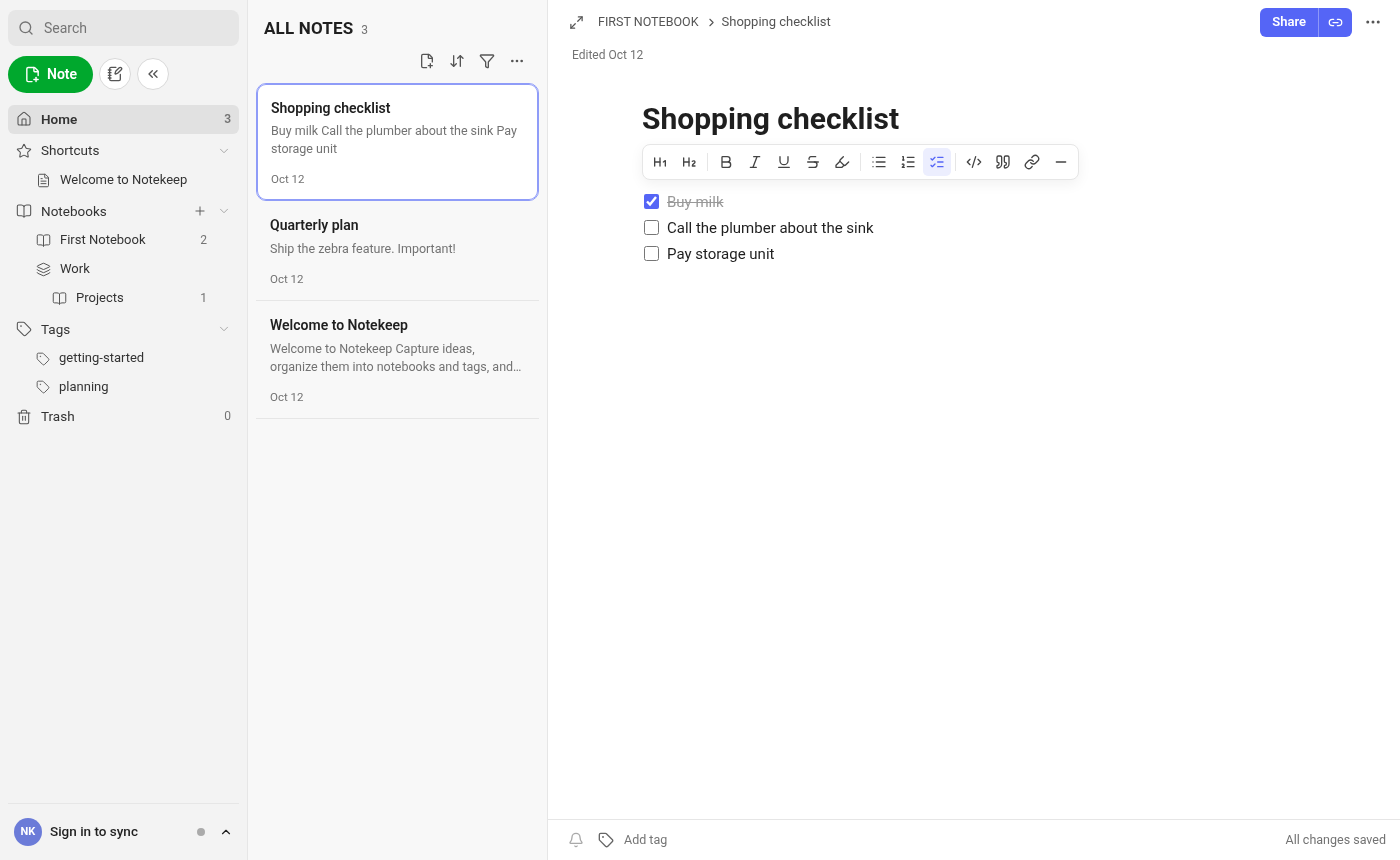
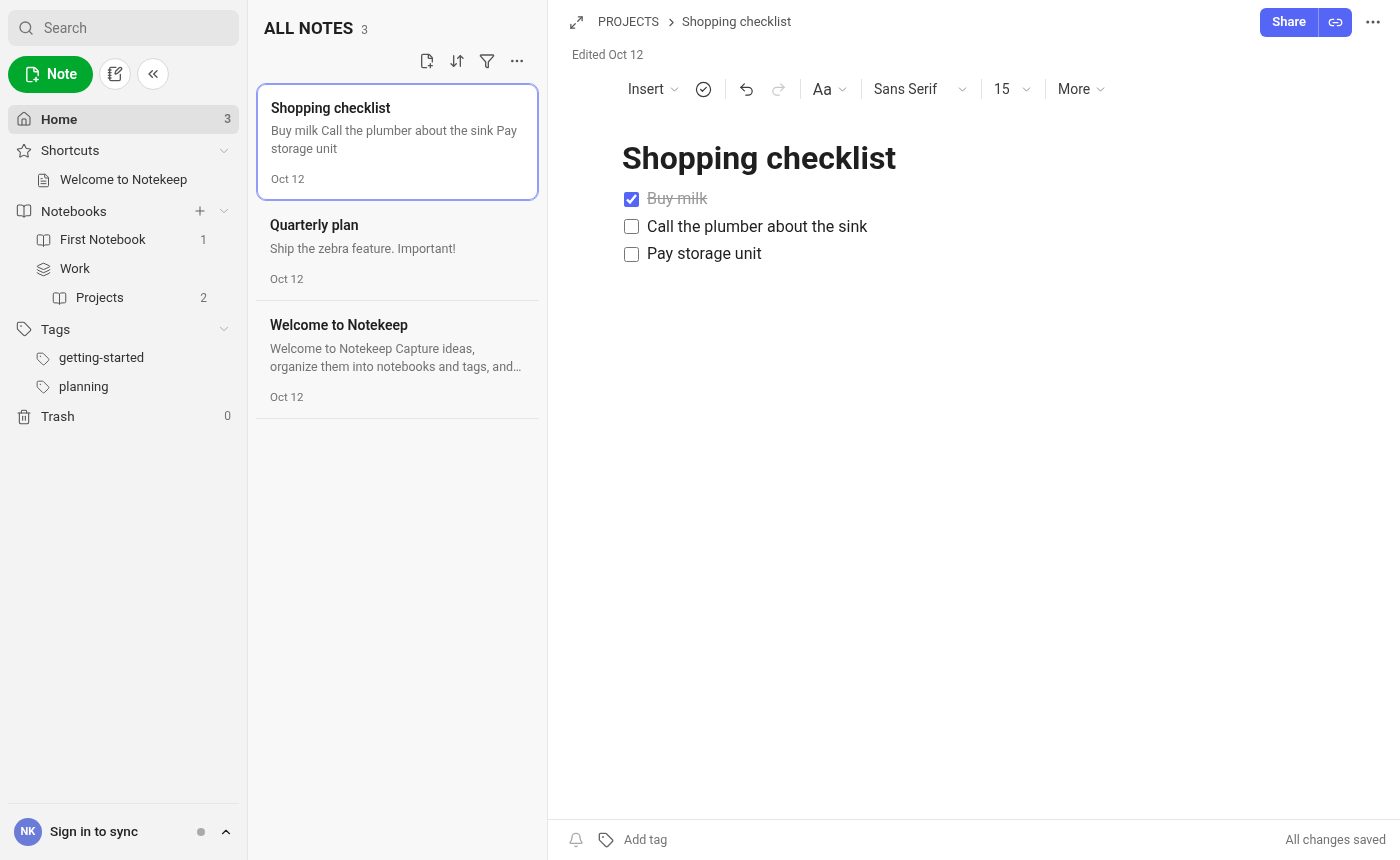
Always-visible editor toolbar: Insert, checklist, undo/redo, Turn into, font family/size, More (marks, color, sup/sub, align, indent, clear); tables/images; 16px body

Changed region(s): [[0.43, 0.0907, 0.7371, 0.3023], [0.43, 0.0, 0.5836, 0.0302], [0.7371, 0.0907, 0.7679, 0.1209]]

diff --git a/src/Editor.tsx b/src/Editor.tsx
@@ -1,40 +1,130 @@
-import { useEditor, EditorContent } from '@tiptap/react'
+import { useEditor, EditorContent, type Editor as TEditor } from '@tiptap/react'
 import StarterKit from '@tiptap/starter-kit'
 import TaskList from '@tiptap/extension-task-list'
 import TaskItem from '@tiptap/extension-task-item'
 import Highlight from '@tiptap/extension-highlight'
-import { Heading1, Heading2, Bold, Italic, Underline, Strikethrough, Highlighter, List, ListOrdered, ListChecks, Code2, Quote, Link, Minus } from 'lucide-react'
-import type { ReactNode } from 'react'
-export default function Editor({ html, onChange }: { html: string; onChange: (html: string, text: string) => void }) {
+import { TextStyle, FontFamily, FontSize, Color } from '@tiptap/extension-text-style'
+import { TableKit } from '@tiptap/extension-table'
+import TextAlign from '@tiptap/extension-text-align'
+import Image from '@tiptap/extension-image'
+import Subscript from '@tiptap/extension-subscript'
+import Superscript from '@tiptap/extension-superscript'
+import { Indent } from './Indent'
+import { ChevronDown, CircleCheck, Undo2, Redo2, ListChecks, List, ListOrdered, Table, Minus, Code2, Quote, Link, Image as ImageIcon, Bold, Italic, Underline, Strikethrough, Highlighter, Palette, Superscript as SupIcon, Subscript as SubIcon, AlignLeft, AlignCenter, AlignRight, Indent as IndentIcon, Outdent, RemoveFormatting, Heading1, Heading2, Heading3, Heading4, Type } from 'lucide-react'
+import { useEffect, useRef, useState, type ReactNode } from 'react'
+
+export const FONTS = [
+  { label: 'Sans Serif', value: '' },
+  { label: 'Serif', value: 'Georgia, "Times New Roman", serif' },
+  { label: 'Slab Serif', value: '"Roboto Slab", Rockwell, "Courier Bold", Georgia, serif' },
+  { label: 'Monospace', value: 'ui-monospace, SFMono-Regular, Menlo, Consolas, monospace' },
+  { label: 'Handwritten', value: '"Comic Sans MS", "Bradley Hand", "Segoe Print", cursive' },
+]
+export const SIZES = [8, 9, 10, 12, 14, 15, 16, 18, 20, 24, 30, 36, 48, 64]
+export const DEFAULT_SIZE = 15
+/** Toolbar sizes are scaled so the default "15" renders at 16px, like the reference. */
+export const toPx = (s: number) => +(s * 16 / DEFAULT_SIZE).toFixed(2) + 'px'
+export const fromPx = (px: string) => Math.round(parseFloat(px) * DEFAULT_SIZE / 16)
+const COLORS = ['#1f1f1f', '#737373', '#d93025', '#e8710a', '#c79100', '#188038', '#1a73e8', '#5565f6', '#9334e6']
+const BLOCKS = [
+  { label: 'Normal text', icon: <Type size={16} />, level: 0 },
+  { label: 'Large header', icon: <Heading1 size={16} />, level: 1 },
+  { label: 'Medium header', icon: <Heading2 size={16} />, level: 2 },
+  { label: 'Small header', icon: <Heading3 size={16} />, level: 3 },
+  { label: 'Extra small header', icon: <Heading4 size={16} />, level: 4 },
+] as const
+
+function Drop({ label, title, children, className = '', wide }: { label: ReactNode; title: string; children: (close: () => void) => ReactNode; className?: string; wide?: boolean }) {
+  const [open, setOpen] = useState(false); const ref = useRef<HTMLDivElement>(null)
+  useEffect(() => { if (!open) return; const f = (e: MouseEvent) => { if (!ref.current?.contains(e.target as Node)) setOpen(false) }; document.addEventListener('mousedown', f); return () => document.removeEventListener('mousedown', f) }, [open])
+  return <div className={'drop ' + className} ref={ref}>
+    <button type="button" className={'tb drop-btn' + (open ? ' open' : '')} title={title} aria-label={title} aria-expanded={open} onMouseDown={e => { e.preventDefault(); setOpen(!open) }}>{label}<ChevronDown size={13} className="cv" /></button>
+    {open && <div className={'dmenu' + (wide ? ' wide' : '')} role="menu">{children(() => setOpen(false))}</div>}
+  </div>
+}
+const Item = ({ icon, label, onRun, active, kbd, close }: { icon?: ReactNode; label: string; onRun: () => void; active?: boolean; kbd?: string; close: () => void }) =>
+  <button type="button" role="menuitem" className={'mitem' + (active ? ' on' : '')} onMouseDown={e => { e.preventDefault(); onRun(); close() }}>
+    <span className="mi-ic">{icon}</span><span className="mi-l">{label}</span>{kbd && <span className="kbd">{kbd}</span>}</button>
+
+function Toolbar({ editor }: { editor: TEditor }) {
+  const c = () => editor.chain().focus()
+  const ts = editor.getAttributes('textStyle')
+  const fam = FONTS.find(f => f.value && ts.fontFamily === f.value) ?? FONTS[0]
+  const size = ts.fontSize ? fromPx(ts.fontSize) : DEFAULT_SIZE
+  const level = BLOCKS.find(b => b.level && editor.isActive('heading', { level: b.level }))?.level ?? 0
+  const mac = /Mac|iPhone|iPad/.test(navigator.platform); const M = mac ? '⌘' : 'Ctrl+'; const S = mac ? '⇧' : 'Shift+'
+  const I = (icon: ReactNode, title: string, run: () => void, disabled = false, active = false) =>
+    <button type="button" className={'tb' + (active ? ' on' : '')} title={title} aria-label={title} disabled={disabled} onMouseDown={e => { e.preventDefault(); run() }}>{icon}</button>
+  return <div className="toolbar" role="toolbar" aria-label="Formatting">
+    <Drop label="Insert" title="Insert" className="txt">{close => <>
+      <Item close={close} icon={<ListChecks size={16} />} label="Checklist" kbd={M + S + 'C'} onRun={() => c().toggleTaskList().run()} />
+      <Item close={close} icon={<List size={16} />} label="Bulleted list" kbd={M + S + '8'} onRun={() => c().toggleBulletList().run()} />
+      <Item close={close} icon={<ListOrdered size={16} />} label="Numbered list" kbd={M + S + '7'} onRun={() => c().toggleOrderedList().run()} />
+      <Item close={close} icon={<Table size={16} />} label="Table" onRun={() => c().insertTable({ rows: 3, cols: 3, withHeaderRow: true }).run()} />
+      <div className="msep" />
+      <Item close={close} icon={<Minus size={16} />} label="Divider" onRun={() => c().setHorizontalRule().run()} />
+      <Item close={close} icon={<Code2 size={16} />} label="Code block" kbd={M + 'Alt+C'} onRun={() => c().toggleCodeBlock().run()} />
+      <Item close={close} icon={<Quote size={16} />} label="Quote" kbd={M + S + 'B'} onRun={() => c().toggleBlockquote().run()} />
+      <Item close={close} icon={<Link size={16} />} label="Link" onRun={() => { const u = prompt('Link URL', editor.getAttributes('link').href ?? 'https://'); if (u === null) return; if (u) c().extendMarkRange('link').setLink({ href: u }).run(); else c().unsetLink().run() }} />
+      <Item close={close} icon={<ImageIcon size={16} />} label="Image from URL" onRun={() => { const u = prompt('Image URL'); if (u) c().setImage({ src: u }).run() }} />
+    </>}</Drop>
+    {I(<CircleCheck size={17} />, 'Checklist', () => c().toggleTaskList().run(), false, editor.isActive('taskList'))}
+    <i className="sep" />
+    {I(<Undo2 size={17} />, 'Undo', () => c().undo().run(), !editor.can().undo())}
+    {I(<Redo2 size={17} />, 'Redo', () => c().redo().run(), !editor.can().redo())}
+    <i className="sep" />
+    <Drop label={<span className="aa">Aa</span>} title={'Turn into: ' + BLOCKS.find(b => b.level === level)!.label} wide>{close => <>
+      <div className="mhead">Turn into</div>
+      {BLOCKS.map(b => <Item key={b.level} close={close} icon={b.icon} label={b.label} active={b.level === level}
+        onRun={() => b.level ? c().setHeading({ level: b.level as 1 | 2 | 3 | 4 }).run() : c().setParagraph().run()} />)}
+    </>}</Drop>
+    <i className="sep" />
+    <Drop label={<span className="fam">{fam.label}</span>} title="Font" className="txt">{close => FONTS.map(f =>
+      <Item key={f.label} close={close} label={f.label} active={f === fam} icon={<span style={{ fontFamily: f.value || 'inherit' }}>Aa</span>}
+        onRun={() => f.value ? c().setFontFamily(f.value).run() : c().unsetFontFamily().run()} />)}</Drop>
+    <i className="sep" />
+    <Drop label={<span className="size">{size}</span>} title="Font size" className="txt">{close => SIZES.map(s =>
+      <Item key={s} close={close} label={String(s)} active={s === size} onRun={() => s === DEFAULT_SIZE ? c().unsetFontSize().run() : c().setFontSize(toPx(s)).run()} />)}</Drop>
+    <i className="sep" />
+    <Drop label="More" title="More formatting" className="txt" wide>{close => <>
+      <Item close={close} icon={<Bold size={16} />} label="Bold" kbd={M + 'B'} active={editor.isActive('bold')} onRun={() => c().toggleBold().run()} />
+      <Item close={close} icon={<Italic size={16} />} label="Italic" kbd={M + 'I'} active={editor.isActive('italic')} onRun={() => c().toggleItalic().run()} />
+      <Item close={close} icon={<Underline size={16} />} label="Underline" kbd={M + 'U'} active={editor.isActive('underline')} onRun={() => c().toggleUnderline().run()} />
+      <Item close={close} icon={<Strikethrough size={16} />} label="Strikethrough" kbd={M + S + 'S'} active={editor.isActive('strike')} onRun={() => c().toggleStrike().run()} />
+      <Item close={close} icon={<Highlighter size={16} />} label="Highlight" kbd={M + S + 'H'} active={editor.isActive('highlight')} onRun={() => c().toggleHighlight().run()} />
+      <div className="mrow"><span className="mi-ic"><Palette size={16} /></span>{COLORS.map(col => <button key={col} type="button" className="swatch" title={'Text color ' + col} style={{ background: col }} onMouseDown={e => { e.preventDefault(); (col === COLORS[0] ? c().unsetColor() : c().setColor(col)).run(); close() }} />)}</div>
+      <Item close={close} icon={<SupIcon size={16} />} label="Superscript" kbd={M + '.'} active={editor.isActive('superscript')} onRun={() => c().toggleSuperscript().run()} />
+      <Item close={close} icon={<SubIcon size={16} />} label="Subscript" kbd={M + ','} active={editor.isActive('subscript')} onRun={() => c().toggleSubscript().run()} />
+      <div className="msep" />
+      <Item close={close} icon={<AlignLeft size={16} />} label="Align left" kbd={M + S + 'L'} active={editor.isActive({ textAlign: 'left' })} onRun={() => c().setTextAlign('left').run()} />
+      <Item close={close} icon={<AlignCenter size={16} />} label="Align center" kbd={M + S + 'E'} active={editor.isActive({ textAlign: 'center' })} onRun={() => c().setTextAlign('center').run()} />
+      <Item close={close} icon={<AlignRight size={16} />} label="Align right" kbd={M + S + 'R'} active={editor.isActive({ textAlign: 'right' })} onRun={() => c().setTextAlign('right').run()} />
+      <Item close={close} icon={<IndentIcon size={16} />} label="Indent" kbd={M + ']'} onRun={() => c().indent().run()} />
+      <Item close={close} icon={<Outdent size={16} />} label="Outdent" kbd={M + '['} onRun={() => c().outdent().run()} />
+      <div className="msep" />
+      <Item close={close} icon={<RemoveFormatting size={16} />} label="Clear formatting" onRun={() => c().unsetAllMarks().clearNodes().run()} />
+    </>}</Drop>
+  </div>
+}
+
+export default function Editor({ html, onChange, header }: { html: string; onChange: (html: string, text: string) => void; header?: ReactNode }) {
   const editor = useEditor({
-    extensions: [StarterKit.configure({ link: { openOnClick: false } }), TaskList, TaskItem.configure({ nested: true }), Highlight],
+    extensions: [
+      StarterKit.configure({ link: { openOnClick: false } }),
+      TaskList, TaskItem.configure({ nested: true }), Highlight,
+      TextStyle, FontFamily, FontSize, Color,
+      TableKit.configure({ table: { resizable: false } }),
+      TextAlign.configure({ types: ['heading', 'paragraph'] }),
+      Image, Subscript, Superscript, Indent,
+    ],
     content: html,
+    shouldRerenderOnTransaction: true,
     onUpdate: ({ editor }) => onChange(editor.getHTML(), editor.getText()),
   })
   if (!editor) return null
-  const B = (icon: ReactNode, title: string, cmd: () => void, active?: boolean) =>
-    <button type="button" title={title} aria-label={title} className={active ? 'on' : ''} onMouseDown={e => { e.preventDefault(); cmd() }}>{icon}</button>
-  const c = () => editor.chain().focus(); const s = 16
   return <div className="editor">
-    <div className="toolbar" role="toolbar">
-      {B(<Heading1 size={s} />, 'Heading 1', () => c().toggleHeading({ level: 1 }).run(), editor.isActive('heading', { level: 1 }))}
-      {B(<Heading2 size={s} />, 'Heading 2', () => c().toggleHeading({ level: 2 }).run(), editor.isActive('heading', { level: 2 }))}
-      <i className="sep" />
-      {B(<Bold size={s} />, 'Bold', () => c().toggleBold().run(), editor.isActive('bold'))}
-      {B(<Italic size={s} />, 'Italic', () => c().toggleItalic().run(), editor.isActive('italic'))}
-      {B(<Underline size={s} />, 'Underline', () => c().toggleUnderline().run(), editor.isActive('underline'))}
-      {B(<Strikethrough size={s} />, 'Strikethrough', () => c().toggleStrike().run(), editor.isActive('strike'))}
-      {B(<Highlighter size={s} />, 'Highlight', () => c().toggleHighlight().run(), editor.isActive('highlight'))}
-      <i className="sep" />
-      {B(<List size={s} />, 'Bulleted list', () => c().toggleBulletList().run(), editor.isActive('bulletList'))}
-      {B(<ListOrdered size={s} />, 'Numbered list', () => c().toggleOrderedList().run(), editor.isActive('orderedList'))}
-      {B(<ListChecks size={s} />, 'Checklist', () => c().toggleTaskList().run(), editor.isActive('taskList'))}
-      <i className="sep" />
-      {B(<Code2 size={s} />, 'Code block', () => c().toggleCodeBlock().run(), editor.isActive('codeBlock'))}
-      {B(<Quote size={s} />, 'Quote', () => c().toggleBlockquote().run(), editor.isActive('blockquote'))}
-      {B(<Link size={s} />, 'Link', () => { const u = prompt('URL'); if (u) c().setLink({ href: u }).run(); else c().unsetLink().run() }, editor.isActive('link'))}
-      {B(<Minus size={s} />, 'Divider', () => c().setHorizontalRule().run())}
-    </div>
+    <Toolbar editor={editor} />
+    {header}
     <EditorContent editor={editor} className="prose" />
   </div>
 }

diff --git a/src/styles.css b/src/styles.css
@@ -61,17 +61,10 @@ nav{flex:1;overflow:auto;margin:0 -8px;padding:0 8px}
 .btn{border:1px solid #ddd;background:#fff;border-radius:6px;padding:5px 12px;font-size:13px}
 .edited{font-size:12px;color:var(--muted);padding:2px 24px 0}
 .scroll{flex:1;overflow:auto}
-.col{max-width:760px;margin:0 auto;padding:36px 48px 60px}
+.col{max-width:800px;margin:0 auto;padding:4px 48px 60px}
 .banner{background:#fff6dd;padding:8px 12px;border-radius:6px;margin-bottom:12px;font-size:13px}
-.title{font-family:inherit;font-weight:700;font-size:30px;line-height:1.25;border:0;outline:0;width:100%;padding:0;margin-bottom:6px;color:var(--text)}
+.title{font-family:inherit;font-weight:700;font-size:32px;line-height:1.25;border:0;outline:0;width:100%;padding:0;margin-bottom:6px;color:var(--text)}
 .title::placeholder{color:#c4c4c4}
-.editor{position:relative}
-.toolbar{display:flex;flex-wrap:wrap;align-items:center;gap:1px;padding:3px;border:1px solid var(--line);border-radius:8px;background:#fff;box-shadow:0 4px 14px #0000000f;position:sticky;top:6px;z-index:3;width:max-content;max-width:100%;margin:0 0 10px;opacity:0;pointer-events:none;transform:translateY(-4px);transition:opacity .15s,transform .15s}
-.editor:focus-within .toolbar,.editor:hover .toolbar{opacity:1;pointer-events:auto;transform:none}
-.toolbar button{border:0;background:none;width:28px;height:28px;border-radius:5px;display:grid;place-items:center;color:#444}.toolbar button:hover{background:#f0f0f0}.toolbar .on{background:#eceefe;color:var(--blue)}
-.sep{width:1px;height:18px;background:var(--line);margin:0 3px}
-.prose .tiptap{outline:0;min-height:50vh;font-size:15px;line-height:1.6}
-.prose .tiptap p{margin:0 0 .5em}.prose h1{font-size:24px}.prose h2{font-size:19px}
 .prose pre{background:#f6f6f6;padding:10px 12px;border-radius:6px;font-size:13px}
 .prose blockquote{border-left:3px solid #d0d0d0;margin-left:0;padding-left:12px;color:#555}
 .prose mark{background:#fff3a3}
@@ -91,3 +84,31 @@ nav{flex:1;overflow:auto;margin:0 -8px;padding:0 8px}
 .tags{display:flex;gap:6px;flex-wrap:wrap;align-items:center}.tags input{border:0;outline:0;font:inherit;font-size:12.5px;width:110px;background:none}
 .tag{display:inline-flex;align-items:center;gap:3px;background:#efefef;color:#333;border-radius:12px;padding:2px 9px;font-size:12px}.tag button{border:0;background:none;padding:0;display:grid;place-items:center;color:#777}
 .saved{white-space:nowrap}
+
+/* editor toolbar (always visible) */
+.editor{position:relative}
+.toolbar{display:flex;align-items:center;gap:2px;flex-wrap:wrap;position:sticky;top:0;z-index:5;background:#fff;padding:6px 0;margin:0 0 28px}
+.tb{border:0;background:none;height:30px;min-width:30px;padding:0 6px;border-radius:6px;display:inline-flex;align-items:center;justify-content:center;gap:4px;color:#3b3b3b;font-size:14px}
+.tb:hover:not(:disabled),.tb.open{background:#f0f0f0}.tb:disabled{color:#c8c8c8;cursor:default}.tb.on{color:var(--blue);background:#eceefe}
+.tb svg{stroke-width:1.7}.cv{opacity:.6}.aa{font-size:16px}.fam{min-width:78px;text-align:left}.size{min-width:22px;text-align:left}
+.sep{width:1px;height:20px;background:#e3e3e3;margin:0 4px}
+.drop{position:relative}
+.dmenu{position:absolute;top:calc(100% + 4px);left:0;min-width:200px;background:#fff;border:1px solid #e5e5e5;border-radius:12px;box-shadow:0 10px 30px #00000022;padding:8px;z-index:30;max-height:60vh;overflow:auto}
+.dmenu.wide{min-width:280px}
+.mhead{font-size:12.5px;color:var(--muted);padding:4px 10px 8px}
+.mitem{display:flex;align-items:center;gap:10px;width:100%;border:0;background:none;padding:7px 10px;border-radius:7px;text-align:left;font-size:14.5px;color:#2b2b2b}
+.mitem:hover{background:#f3f3f3}.mitem.on{color:var(--blue)}.mitem.on .mi-ic{color:var(--blue)}
+.mi-ic{width:20px;display:grid;place-items:center;color:#555;flex:none}.mi-l{flex:1}.kbd{font-size:12px;color:#9a9a9a}
+.msep{height:1px;background:#ececec;margin:6px 4px}
+.mrow{display:flex;align-items:center;gap:6px;padding:7px 10px}.swatch{width:18px;height:18px;border-radius:50%;border:1px solid #0002;padding:0}
+/* body typography: ~16px / 1.6 like the reference */
+.prose .tiptap{outline:0;min-height:50vh;font-size:16px;line-height:1.6;color:#1f1f1f}
+.prose .tiptap p{margin:0 0 .35em}
+.prose h1{font-size:1.75em;line-height:1.25;margin:.8em 0 .35em}.prose h2{font-size:1.4em;line-height:1.3;margin:.75em 0 .3em}
+.prose h3{font-size:1.2em;margin:.7em 0 .3em}.prose h4{font-size:1.05em;margin:.6em 0 .25em}
+.prose .tiptap>:first-child{margin-top:0}
+.prose table{border-collapse:collapse;width:100%;margin:.6em 0;table-layout:fixed}.prose td,.prose th{border:1px solid #dcdcdc;padding:6px 8px;vertical-align:top;min-width:60px}.prose th{background:#f6f6f6;text-align:left;font-weight:600}
+.prose td p,.prose th p{margin:0}.prose .selectedCell{background:#eceefe}
+.prose img{max-width:100%;height:auto;border-radius:4px}.prose img.ProseMirror-selectednode{outline:2px solid var(--blue)}
+.prose a{color:var(--blue)}
+.ro .title{pointer-events:none}

diff --git a/src/Indent.ts b/src/Indent.ts
@@ -1,0 +1,28 @@
+import { Extension } from '@tiptap/core'
+declare module '@tiptap/core' { interface Commands<ReturnType> { indent: { indent: () => ReturnType; outdent: () => ReturnType } } }
+const TYPES = ['paragraph', 'heading']
+/** Paragraph/heading indentation stored as data-indent + margin-left in note HTML. Lists use sink/lift instead. */
+export const Indent = Extension.create({
+  name: 'indent',
+  addGlobalAttributes() {
+    return [{ types: TYPES, attributes: { indent: {
+      default: 0,
+      parseHTML: el => Number(el.getAttribute('data-indent')) || 0,
+      renderHTML: a => a.indent ? { 'data-indent': a.indent, style: `margin-left:${a.indent * 2}em` } : {},
+    } } }]
+  },
+  addCommands() {
+    const step = (d: number) => () => ({ editor, chain, state }: any) => {
+      if (editor.isActive('listItem')) return d > 0 ? chain().sinkListItem('listItem').run() : chain().liftListItem('listItem').run()
+      if (editor.isActive('taskItem')) return d > 0 ? chain().sinkListItem('taskItem').run() : chain().liftListItem('taskItem').run()
+      const { from, to } = state.selection; let tr = state.tr; let changed = false
+      state.doc.nodesBetween(from, to, (node: any, pos: number) => {
+        if (TYPES.includes(node.type.name)) { const v = Math.max(0, Math.min(8, (node.attrs.indent || 0) + d)); if (v !== node.attrs.indent) { tr = tr.setNodeMarkup(pos, undefined, { ...node.attrs, indent: v }); changed = true } }
+      })
+      if (changed) editor.view.dispatch(tr)
+      return changed
+    }
+    return { indent: step(1), outdent: step(-1) }
+  },
+  addKeyboardShortcuts() { return { 'Mod-]': () => this.editor.commands.indent(), 'Mod-[': () => this.editor.commands.outdent() } },
+})

diff --git a/src/App.tsx b/src/App.tsx
@@ -158,8 +158,8 @@ export default function App() {
         <div className="scroll">
           <div className="col">
             {cur.deletedAt && <div className="banner">This note is in Trash. Restore it to edit.</div>}
-            <input className="title" placeholder="Title" value={cur.title} readOnly={!!cur.deletedAt} onChange={e => upd({ ...cur, title: e.target.value, updatedAt: Date.now() }, false)} />
-            <div className={cur.deletedAt ? 'ro' : ''}><Editor key={cur.id} html={cur.html} onChange={(html, text) => editBody(cur.id, html, text)} /></div>
+            <div className={cur.deletedAt ? 'ro' : ''}><Editor key={cur.id} html={cur.html} onChange={(html, text) => editBody(cur.id, html, text)}
+              header={<input className="title" placeholder="Title" value={cur.title} readOnly={!!cur.deletedAt} onChange={e => upd({ ...cur, title: e.target.value, updatedAt: Date.now() }, false)} />} /></div>
           </div>
         </div>
         <footer className="bottombar">
